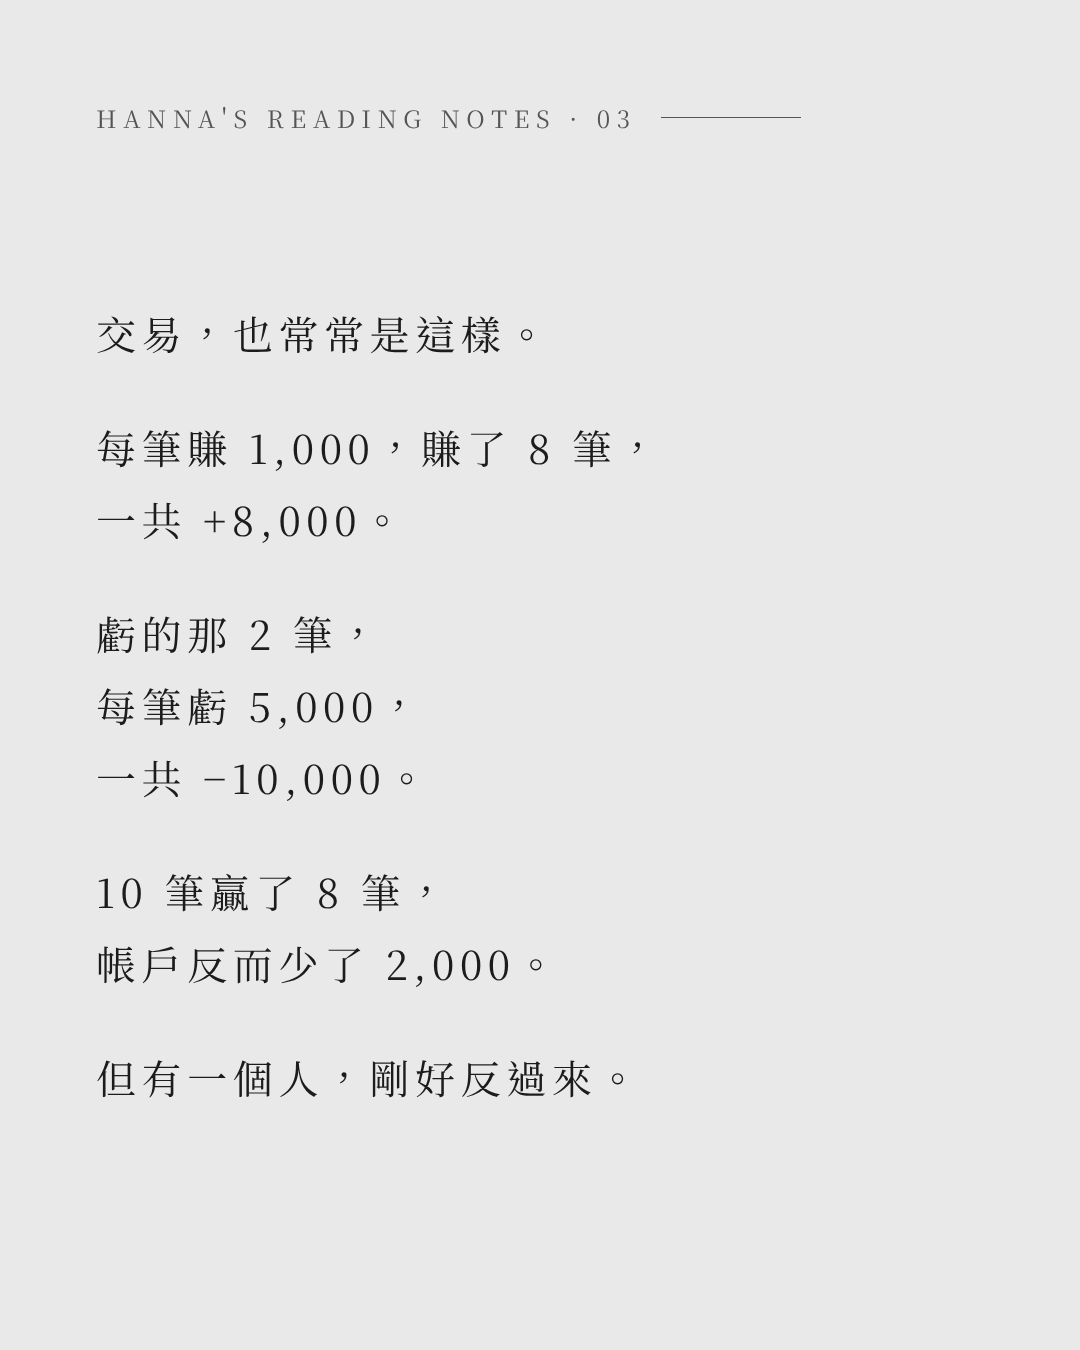
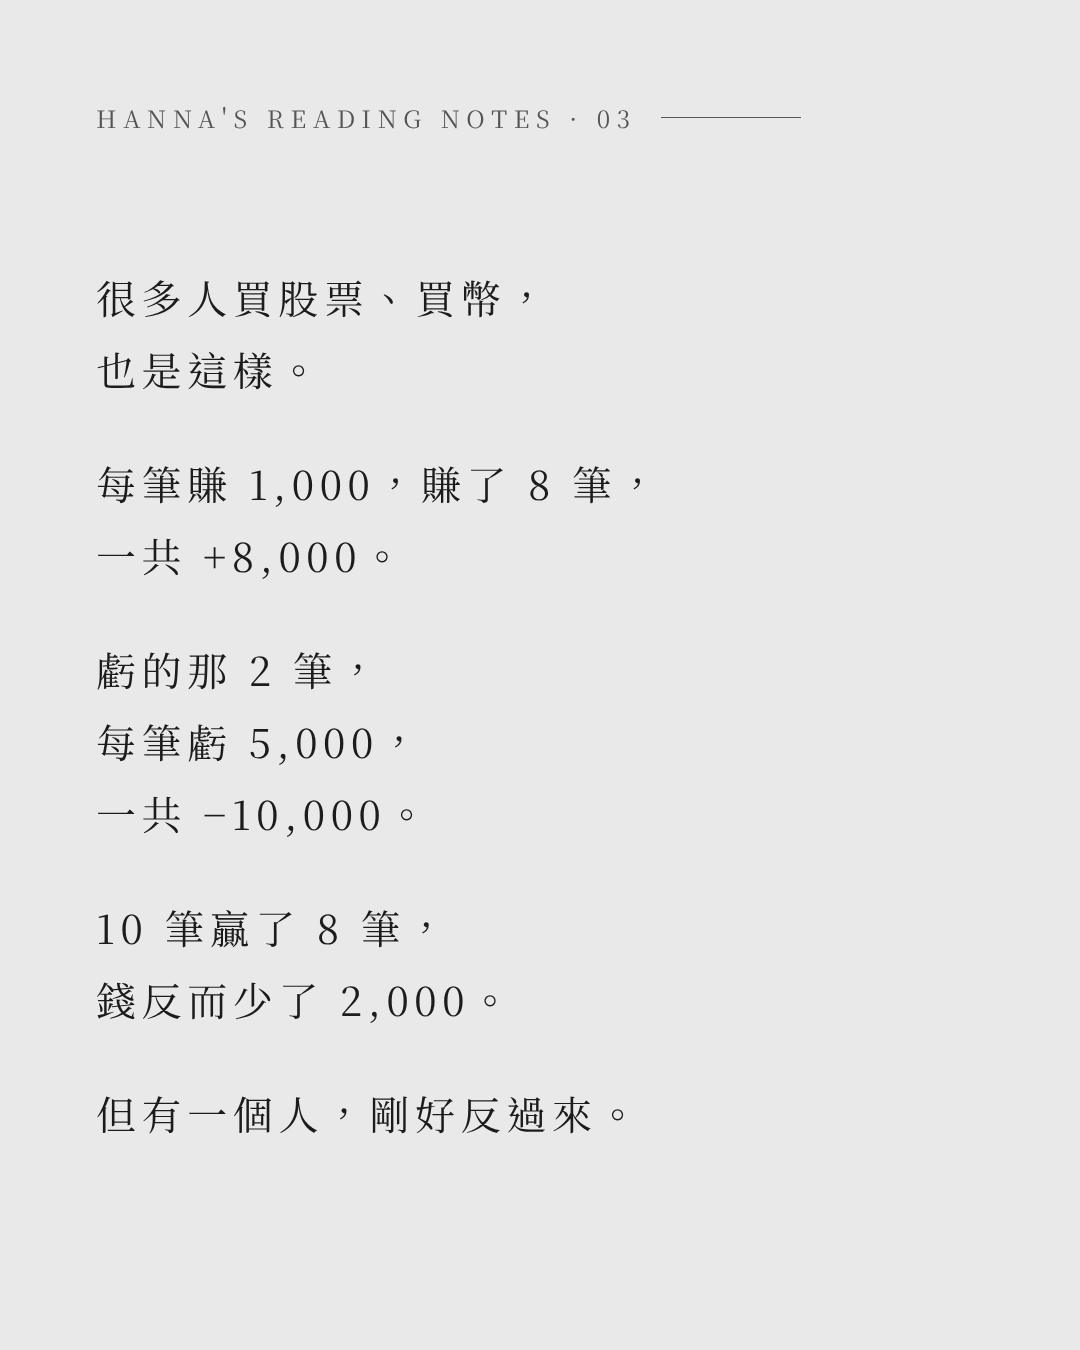
賺賠比輪播：封面改用上班族生活場景開頭，規格加入上班族用詞庫
Claude-Session: https://claude.ai/code/session_01AFjNkU8XspDCm6xvkskaQj

diff --git a/IP經營/輪播_賺賠比/slides.html b/IP經營/輪播_賺賠比/slides.html
@@ -53,7 +53,7 @@
 <body>
 
 <section class="slide cover">
-  <h1>10筆交易<br>賺了8筆<br>帳戶卻還在虧？</h1>
+  <h1>每天省100元早餐錢<br>一次衝動購物<br>一個月白省了</h1>
   <div class="person"></div>
   <div class="sign">Hanna</div>
 </section>
@@ -67,10 +67,10 @@
 </div></section>
 
 <section class="slide"><div class="body">
-  <p>交易，也常常是這樣。</p>
+  <p>很多人買股票、買幣，<br>也是這樣。</p>
   <p>每筆賺 1,000，賺了 8 筆，<br>一共 +8,000。</p>
   <p>虧的那 2 筆，<br>每筆虧 5,000，<br>一共 −10,000。</p>
-  <p>10 筆贏了 8 筆，<br>帳戶反而少了 2,000。</p>
+  <p>10 筆贏了 8 筆，<br>錢反而少了 2,000。</p>
   <p>但有一個人，剛好反過來。</p>
 </div></section>
 

diff --git a/IP經營/輪播貼文_賺賠比.md b/IP經營/輪播貼文_賺賠比.md
@@ -5,7 +5,7 @@
 封面人物照：使用者提供的照片，裁到頭和肩膀後去背（birefnet-portrait）
 
 依據數據調整：
-- 封面用讀者算得出來的數字（10 筆賺 8 筆）
+- 封面改用上班族的生活場景（省早餐錢、衝動購物），不用「交易」開頭
 - 第 2 張接生活場景（省早餐錢、一次衝動消費）
 - 名人故事壓在第 4、5 張
 - 第 6 張放可收藏的「賺的是虧的幾倍 vs 10 筆要贏幾筆」對照表，用白話說明，最後才帶出「賺賠比」這個詞
@@ -13,19 +13,19 @@
 
 ## 貼文說明文字（Caption）
 
-10 筆交易賺了 8 筆，帳戶卻還在虧？
+每天省 100 元早餐錢，一次衝動購物，一個月白省了。
 
-每天省下 100 元早餐錢，一個月省了 3,000。
+每天省下 100 元，一個月省了 3,000，很有成就感。
 然後某天一次衝動，買了 1 萬元的東西。
 整個月的努力一次歸零，還倒貼 7,000。
 
 省小錢很努力，花大錢卻很隨便。
 
-交易，也常常是這樣。
+很多人買股票、買幣，也是這樣。
 
 每筆賺 1,000，賺了 8 筆，一共 +8,000。
 虧的那 2 筆，每筆虧 5,000，一共 −10,000。
-10 筆贏了 8 筆，帳戶反而少了 2,000。
+10 筆贏了 8 筆，錢反而少了 2,000。
 
 但有一個人，剛好反過來。
 
